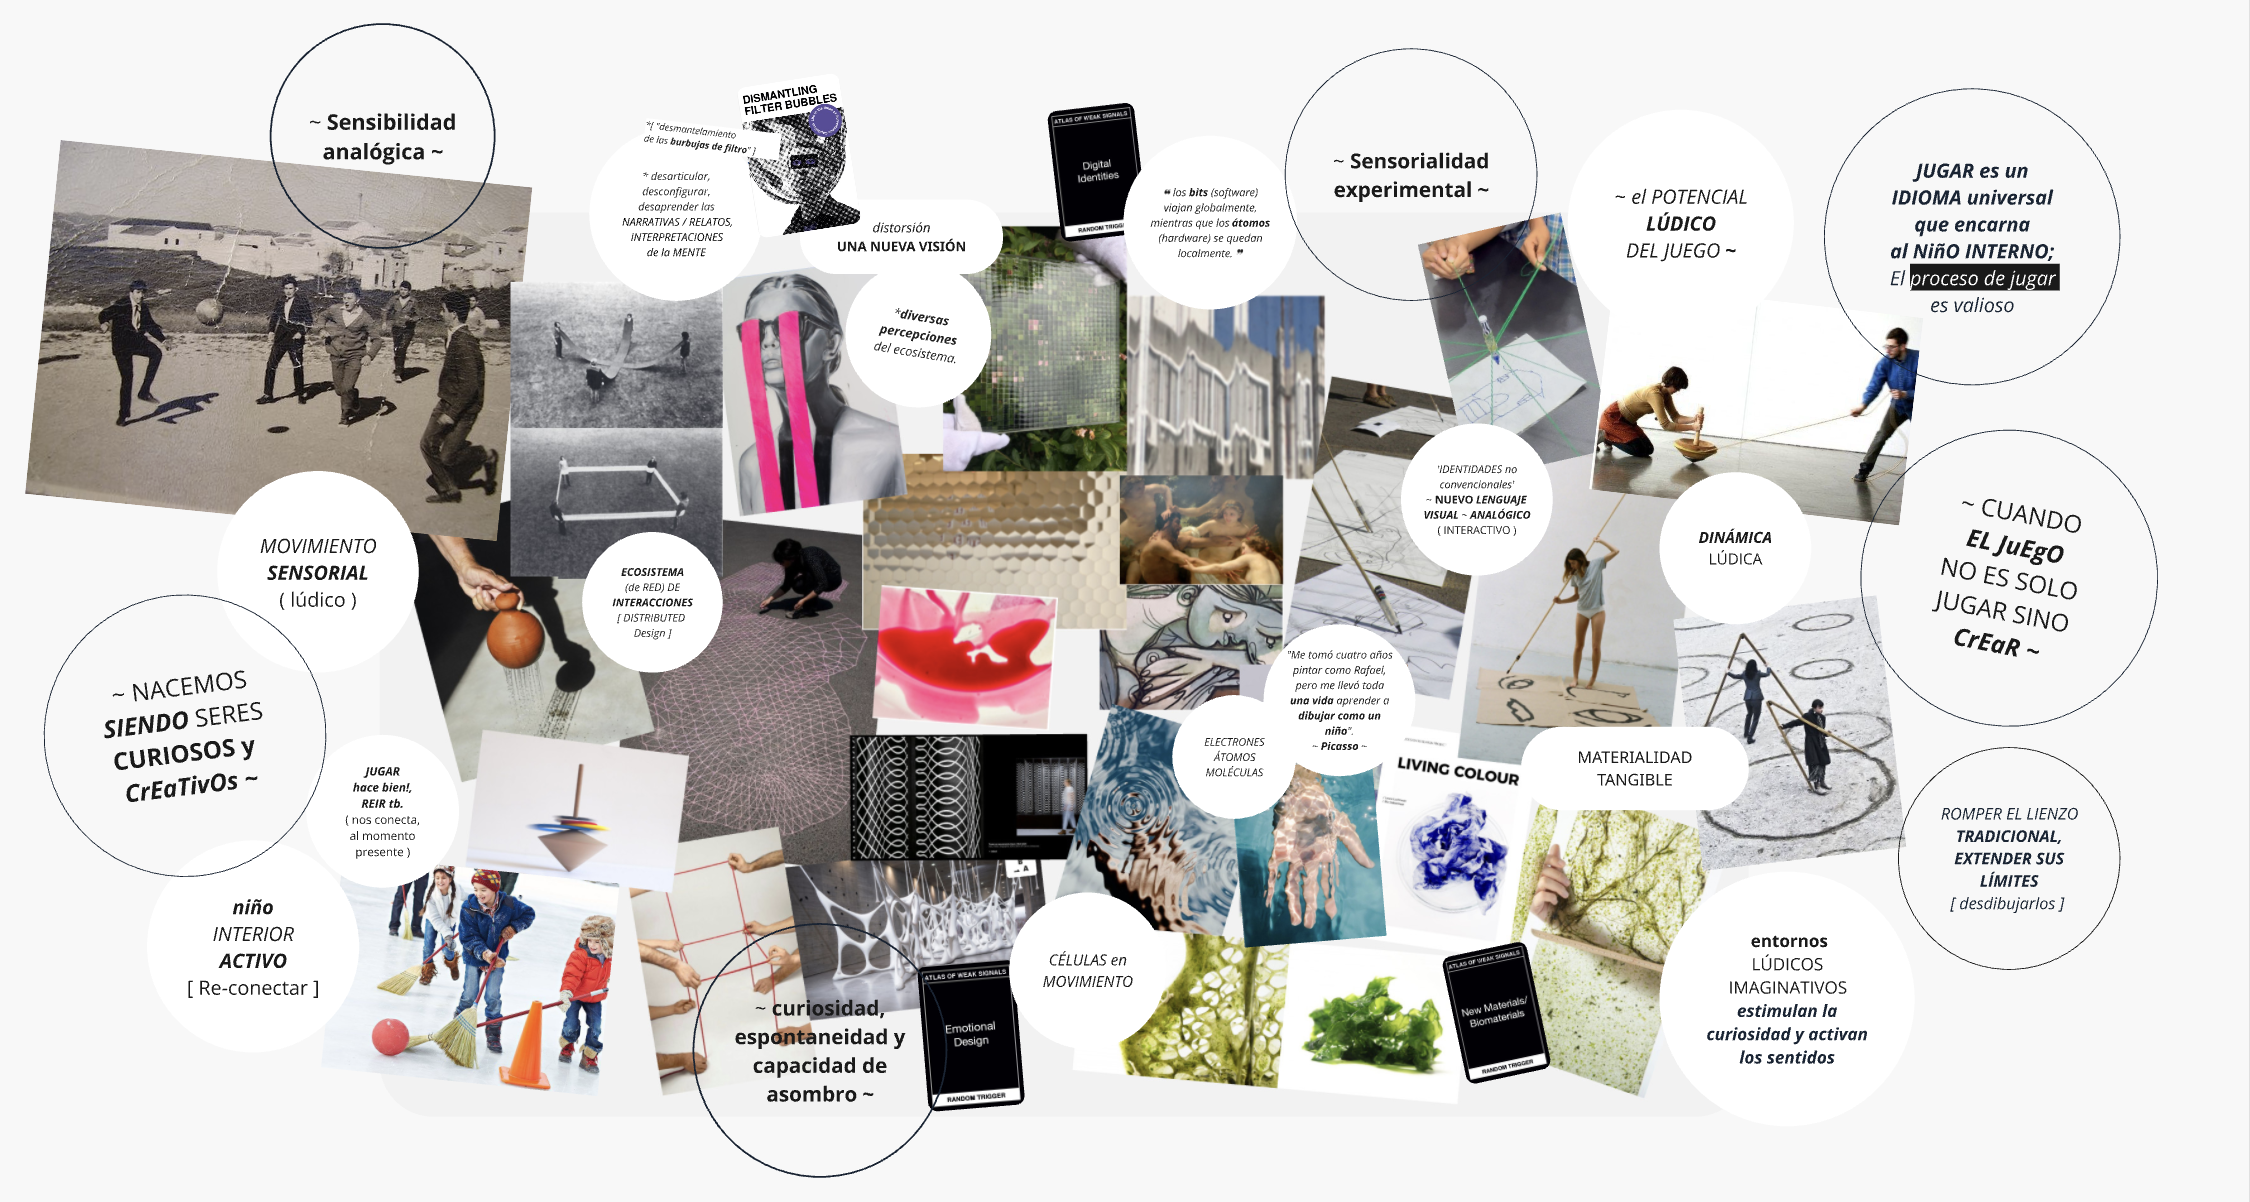
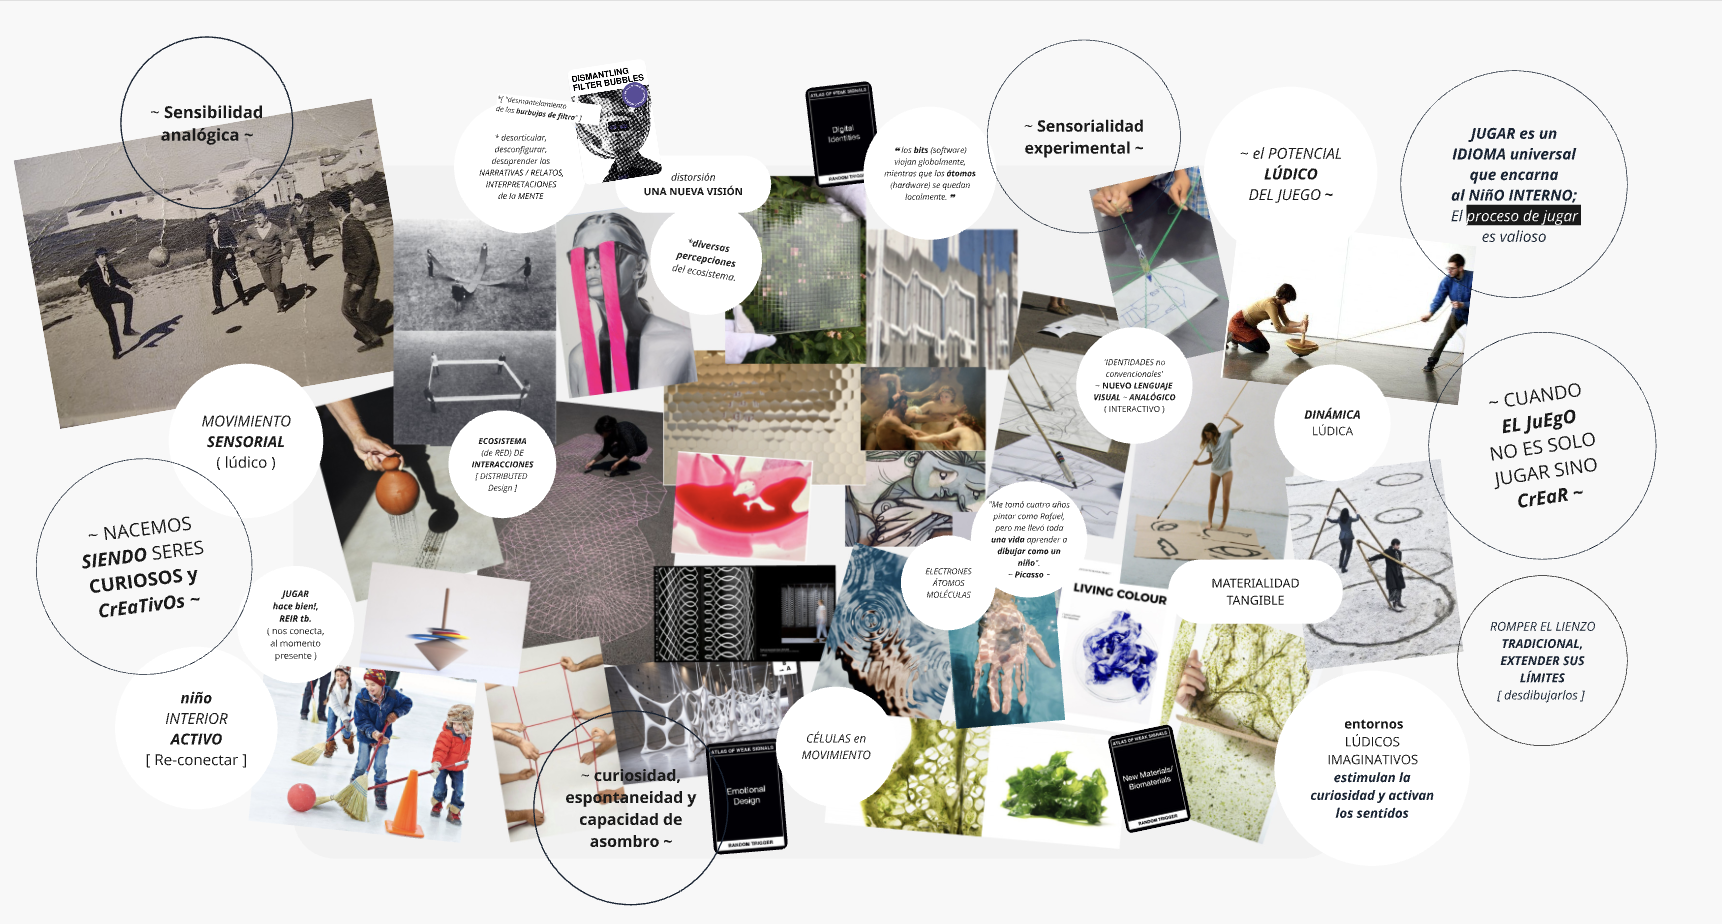
Project_images_prot_GUI

diff --git a/docs/proyecto/'VIVO'.md b/docs/proyecto/'VIVO'.md
@@ -108,11 +108,8 @@ El objetivo principal de este ensayo se centró en obtener la simulación virtua
 [+info _[ WOKWI ~ PROTOTIPO C2 - #4 ]_]([https://](https://docs.wokwi.com/?utm_source=wokwi))
 
 
-![](../images/PI/PI_10_PROT_A0_ESP32CAM_IMG_1082.)
-![](../images/PI/PI_10_PROT_A0_ESP32CAM_IMG_1082.)
-![](../images/PI/PI_10_PROT_A0_ESP32CAM_IMG_1082.)
-![](../images/PI/PI_10_PROT_A0_ESP32CAM_IMG_1082.)
-
+![](../images/PI/PI_13_PROT_AFISICO_5y6.gif)
+![](../images/PI/PI_13_PROT_AFISICO_6byc.gif)
 ![](../images/PI/PI_14_GUI_PROT_A_FISICO_6c.png)
 [+info [_PROCESSING ~ PROTOTIPO C2-5,6,7,8,9_]]([https://](https://processing.org))
 
